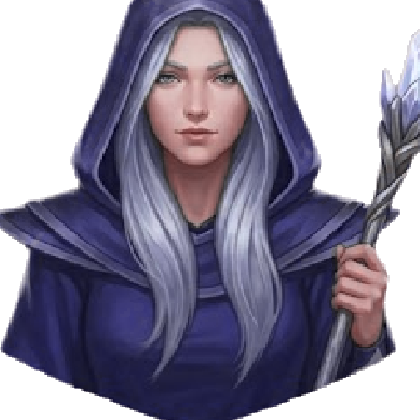
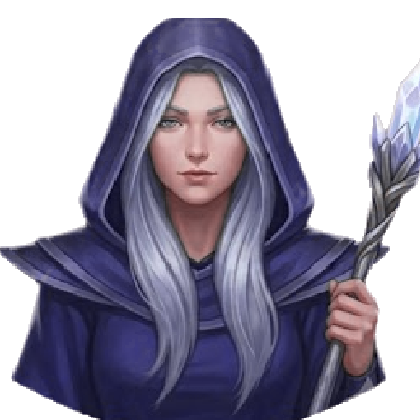
Lower sage select portrait a touch for better centering (ASSET_VERSION 17)

diff --git a/src/game/sprites.js b/src/game/sprites.js
@@ -14,7 +14,7 @@ const BASE = import.meta.env.BASE_URL || '/';
 // Bump this whenever portrait/sprite PNGs are re-exported. Vite does NOT hash
 // files under public/, so browsers (and the dev server) can serve a stale
 // cached copy after art updates — the version query forces a fresh fetch.
-const ASSET_VERSION = '16';
+const ASSET_VERSION = '17';
 const v = (url) => `${url}${url.includes('?') ? '&' : '?'}v=${ASSET_VERSION}`;
 
 /**